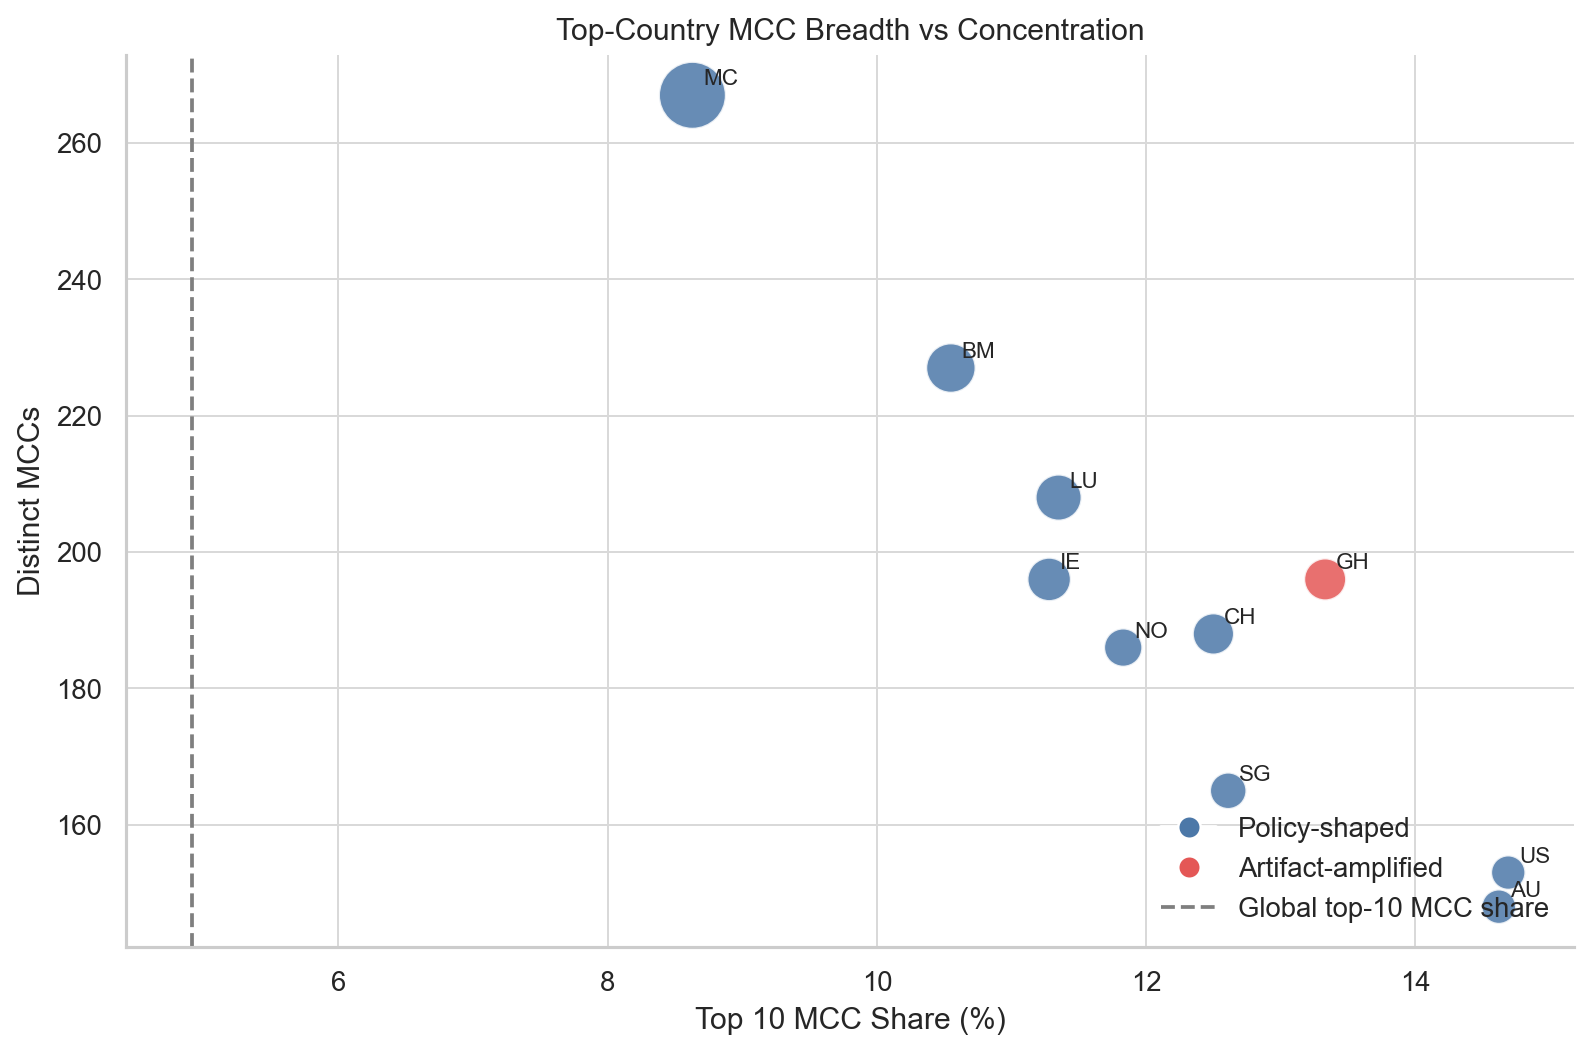
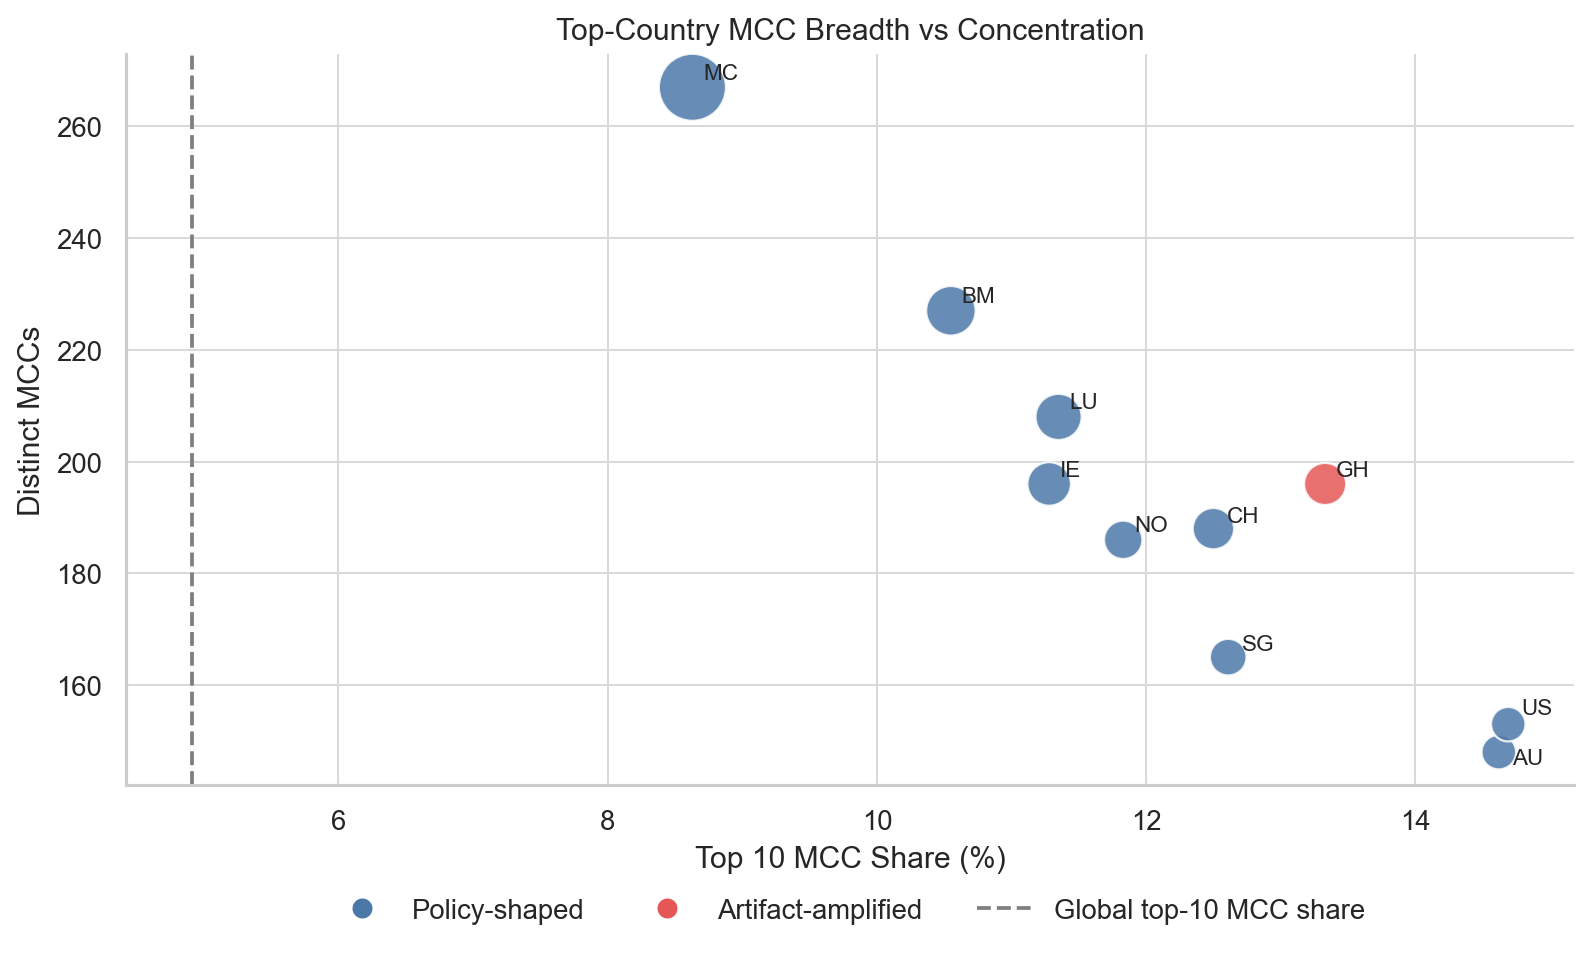
Enhance MCC breadth concentration plot with label offsets and reposition legend; improve annotation for distance plot

diff --git a/analysis/dev_full_offline_investigation/00_investigation/watson_workbench/scratch/plot_transaction_schema_top_country_mix.py b/analysis/dev_full_offline_investigation/00_investigation/watson_workbench/scratch/plot_transaction_schema_top_country_mix.py
@@ -54,17 +54,24 @@ def draw_mcc_breadth_concentration_plot() -> Path:
     ax.spines["top"].set_visible(False)
     ax.spines["right"].set_visible(False)
 
+    label_offsets = {
+        "US": (0.10, 1.8),
+        "AU": (0.10, -2.2),
+        "SG": (0.10, 1.2),
+        "CH": (0.10, 1.2),
+    }
     for row in df.itertuples(index=False):
-        ax.text(row.top10_mcc_share_pct + 0.08, row.distinct_mcc + 1.5, row.country_iso, fontsize=9)
+        dx, dy = label_offsets.get(row.country_iso, (0.08, 1.5))
+        ax.text(row.top10_mcc_share_pct + dx, row.distinct_mcc + dy, row.country_iso, fontsize=9)
 
     handles = [
         plt.Line2D([0], [0], marker="o", color="w", markerfacecolor=POLICY_COLOR, markersize=9, label="Policy-shaped"),
         plt.Line2D([0], [0], marker="o", color="w", markerfacecolor=ARTIFACT_COLOR, markersize=9, label="Artifact-amplified"),
         plt.Line2D([0], [0], color=NEUTRAL, linestyle="--", linewidth=1.5, label="Global top-10 MCC share"),
     ]
-    ax.legend(handles=handles, loc="lower right", frameon=False)
+    ax.legend(handles=handles, loc="upper center", bbox_to_anchor=(0.5, -0.12), ncol=3, frameon=False)
 
-    fig.tight_layout()
+    fig.tight_layout(rect=(0, 0.08, 1, 1))
     out_path = EXPORTS / "transaction_schema_top_country_mcc_breadth_concentration.png"
     fig.savefig(out_path, dpi=180, bbox_inches="tight")
     plt.close(fig)
@@ -93,7 +100,15 @@ def draw_mcc_distance_plot() -> Path:
     ax.spines["right"].set_visible(False)
 
     for y, row in enumerate(df_jsd.itertuples(index=False)):
-        ax.text(row.mcc_jsd_vs_global_bits + 0.004, y, f"{row.mcc_jsd_vs_global_bits:.3f}", va="center", fontsize=9)
+        ax.annotate(
+            f"{row.mcc_jsd_vs_global_bits:.3f}",
+            xy=(row.mcc_jsd_vs_global_bits, y),
+            xytext=(8, 8),
+            textcoords="offset points",
+            ha="left",
+            va="bottom",
+            fontsize=9,
+        )
 
     handles = [
         plt.Rectangle((0, 0), 1, 1, color=POLICY_COLOR, label="Policy-shaped"),
